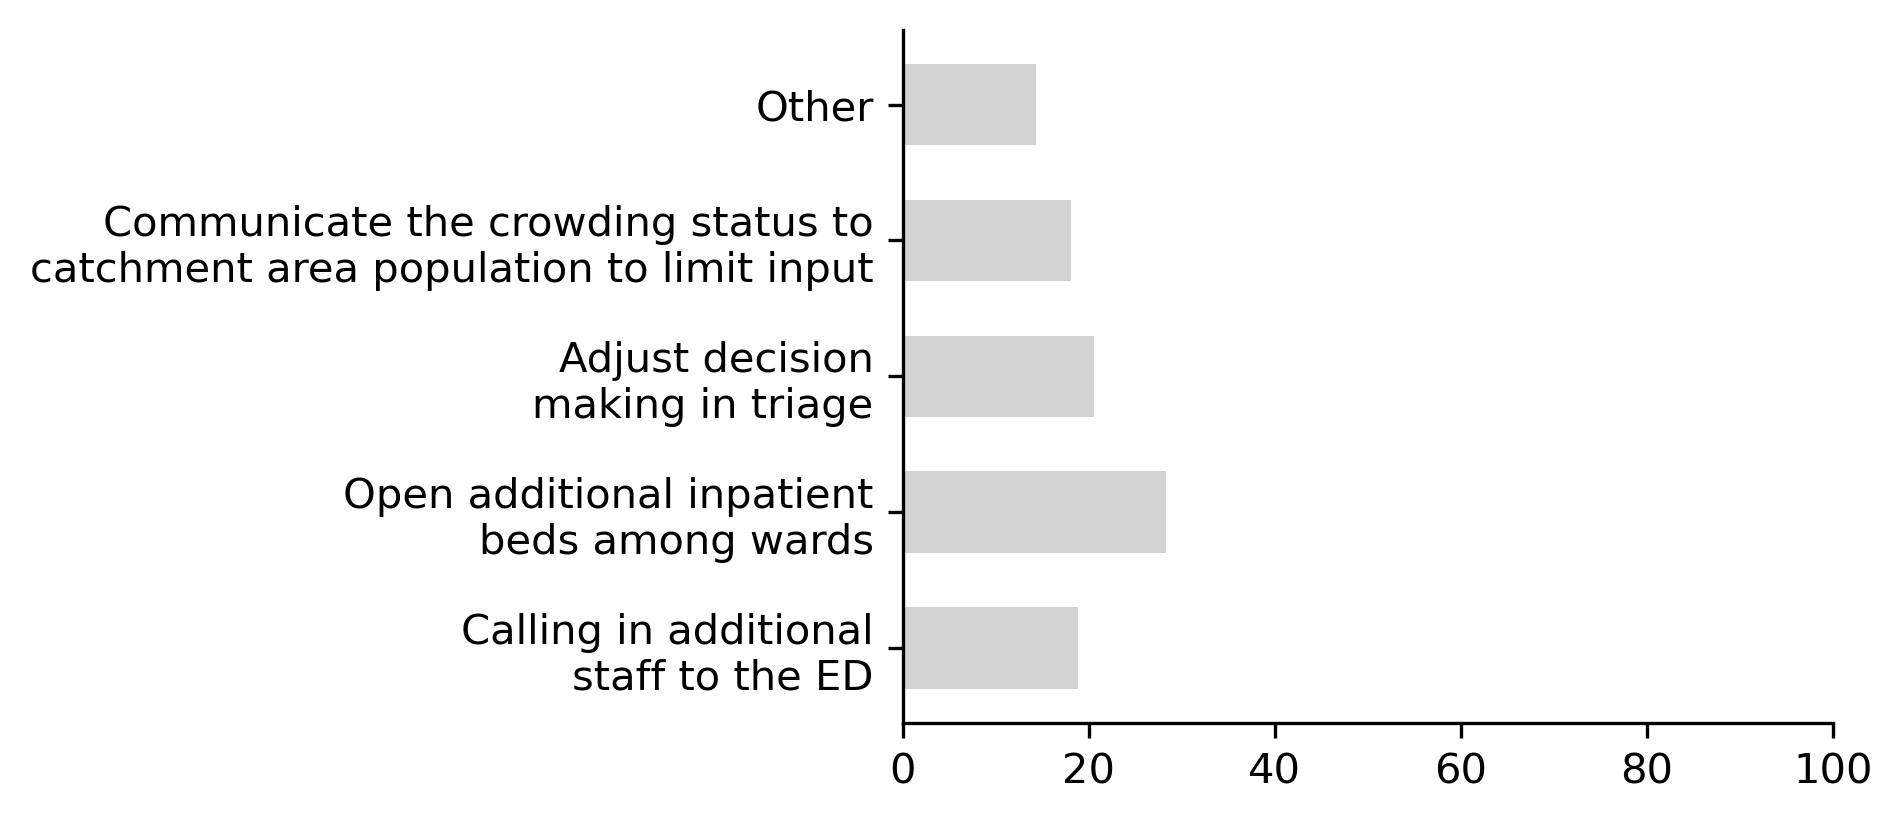
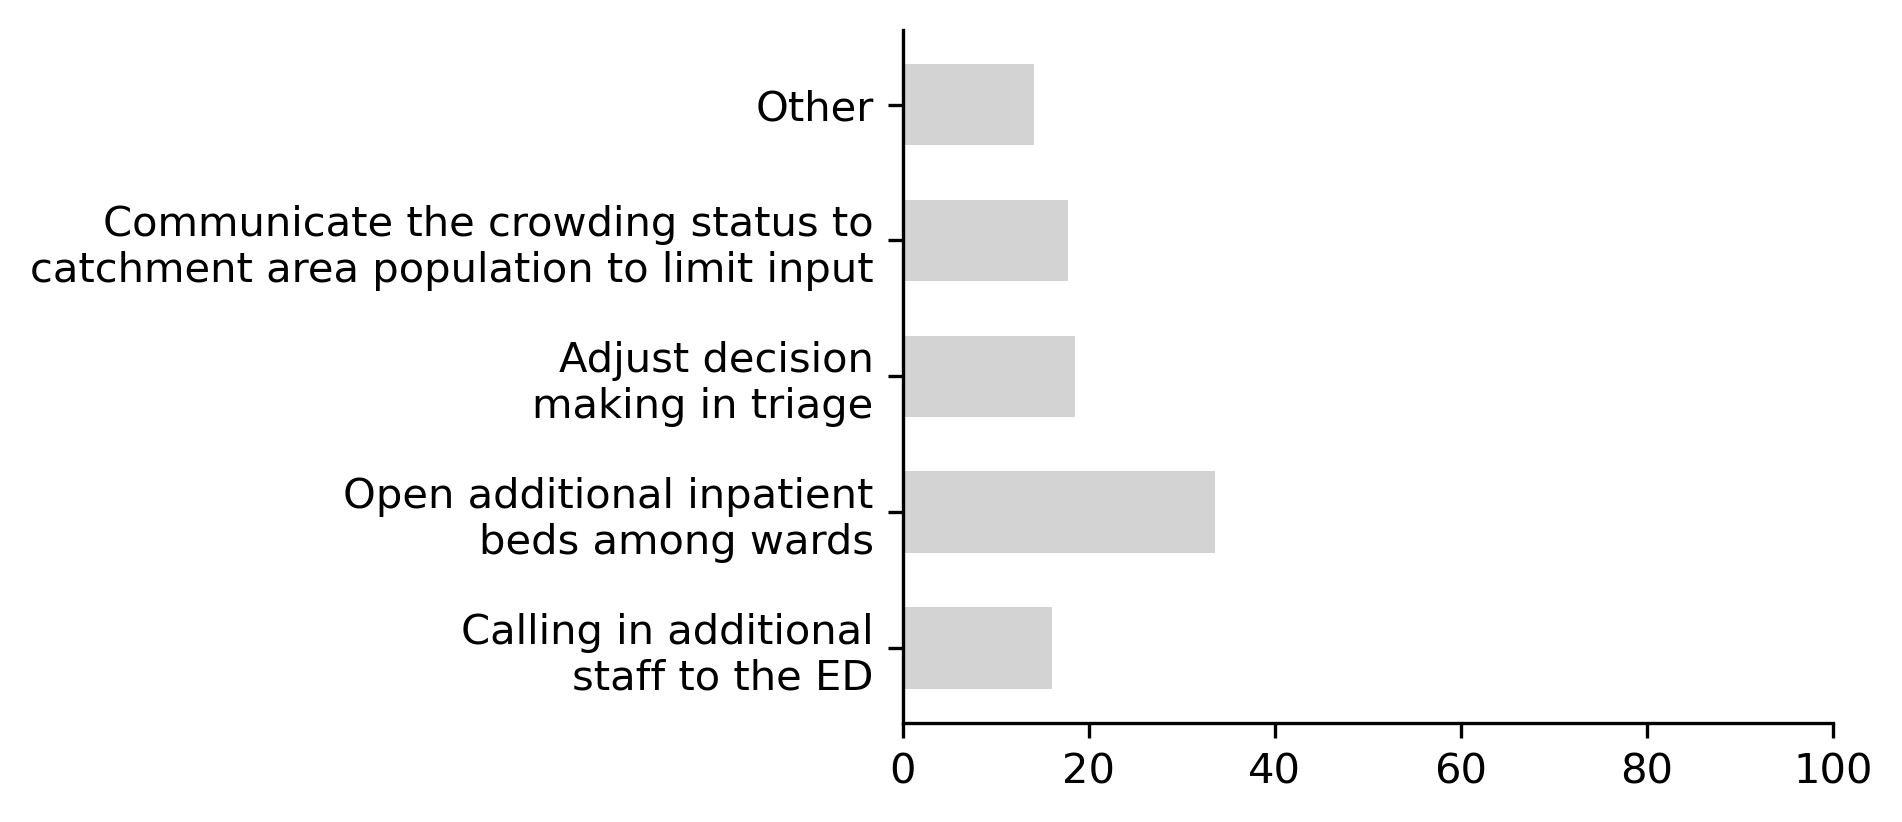
Update plot_interventsions.ipynb to EU level

Changed region(s): [[0.5273, 0.7299, 0.5894, 0.8516], [0.5894, 0.5779, 0.6514, 0.6691], [0.5584, 0.3954, 0.5894, 0.517]]

diff --git a/report/manuscript.tex b/report/manuscript.tex
@@ -117,7 +117,7 @@ and K is number of countries in Europe.
 \begin{figure}[H]
     \centering
         \includegraphics[width=1.0\textwidth]{../output/plots/definition}
-        \caption{definition}
+        \caption{Distribution of utilized crowding definitions aggregated to EU level}
         \label{fig:definition}
 \end{figure}
 
@@ -126,7 +126,7 @@ and K is number of countries in Europe.
 \begin{figure}[H]
     \centering
         \includegraphics[width=1.0\textwidth]{../output/plots/crowding_map}
-        \caption{Crowding map}
+        \caption{Map of the proportion of crowded days during a normal operating month as estimated by the respondents and aggregated to country level.}
         \label{fig:crowding_map}
 \end{figure}
 
@@ -135,7 +135,7 @@ and K is number of countries in Europe.
 \begin{figure}[H]
     \centering
         \includegraphics[width=1.0\textwidth]{../output/plots/country_crowding}
-        \caption{countrycrowding}
+        \caption{The proportion of crowded days during a normal operating month as estimated by the respondents.}
         \label{fig:country_crowding}
 \end{figure}
 
@@ -147,6 +147,7 @@ and K is number of countries in Europe.
         \caption{Interventions}
         \label{fig:interventions}
 \end{figure}
+
 
 \subsection{Demand planning}
 \lipsum[4]
